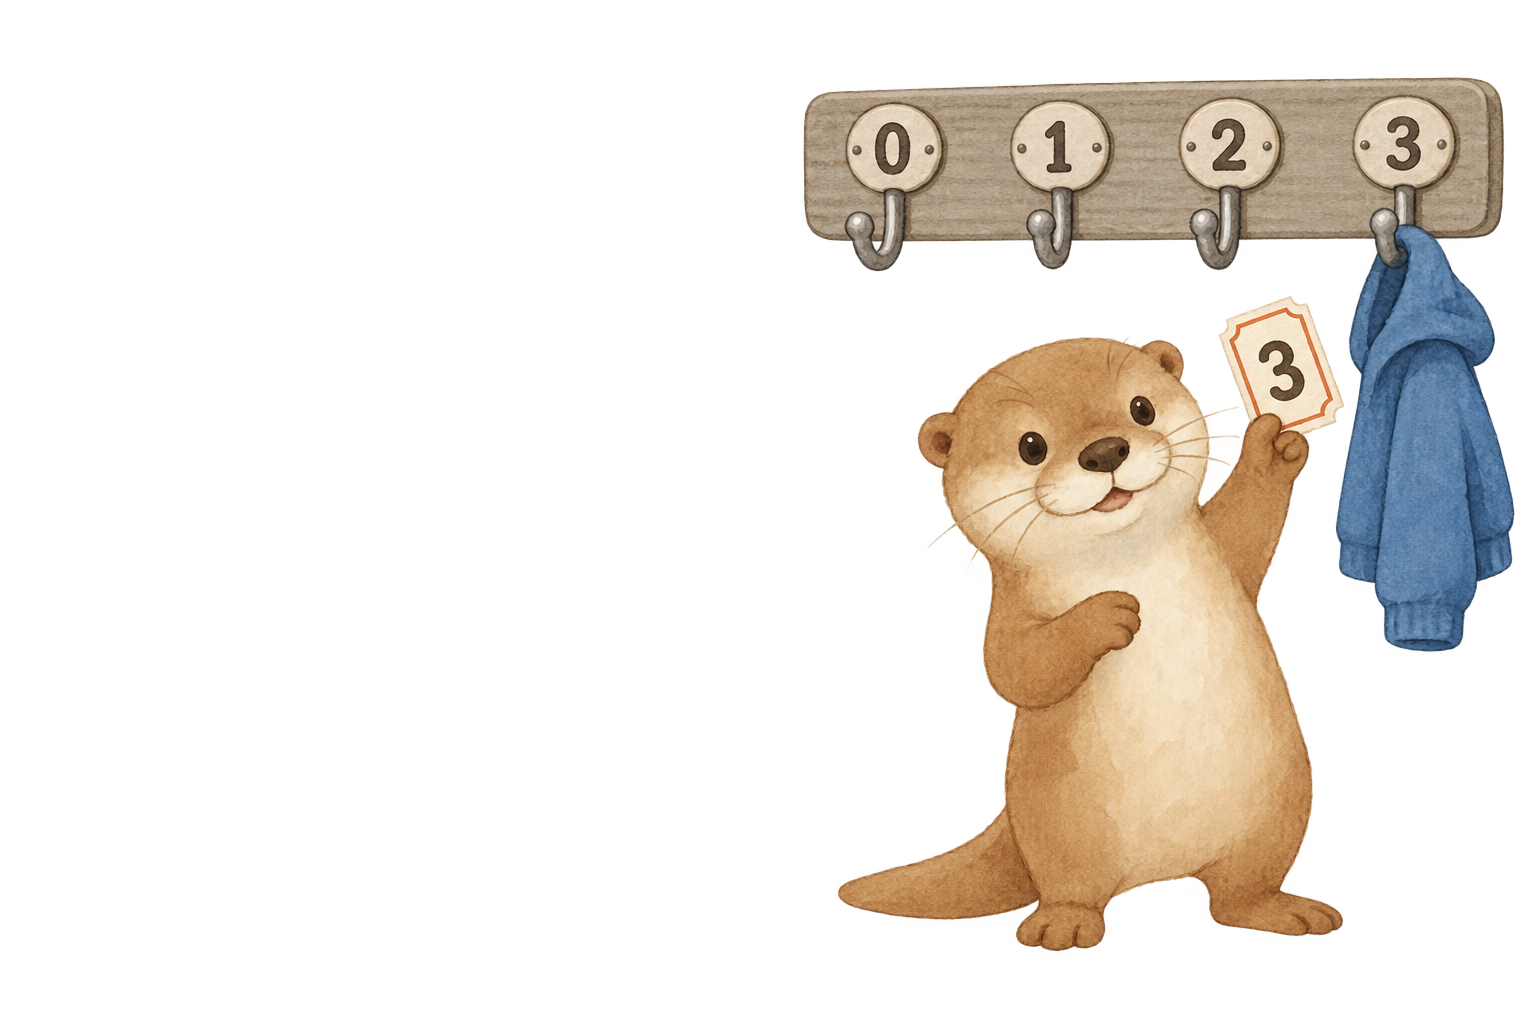
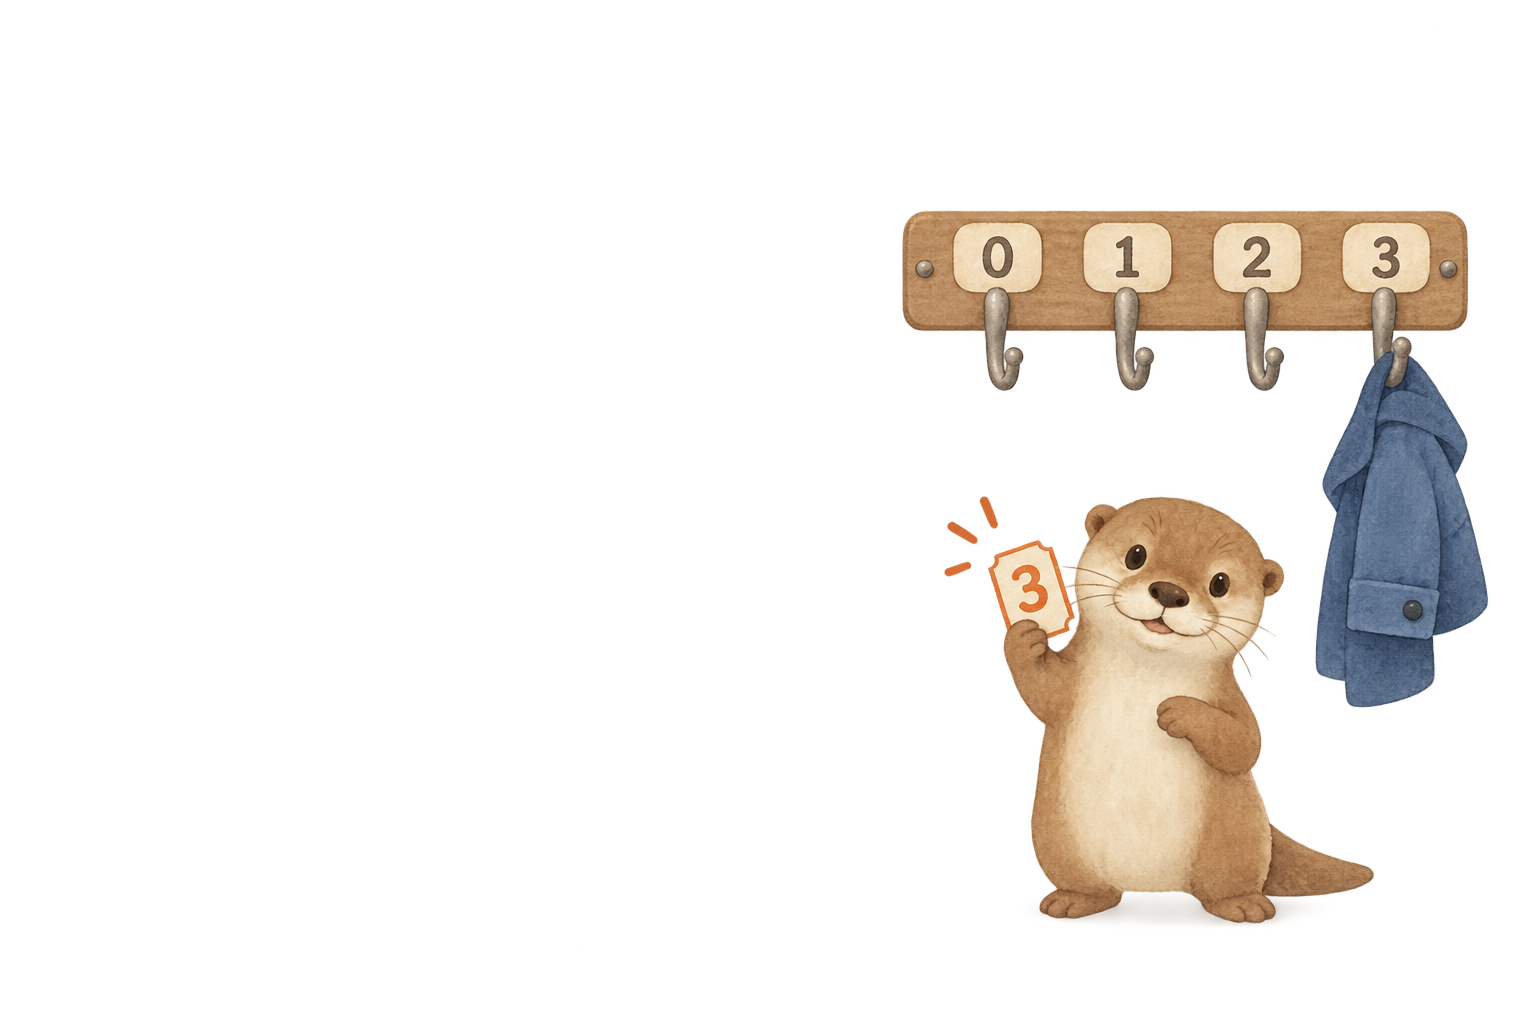
update images

Changed region(s): [[0.5, 0.0625, 1.0, 0.9375]]

diff --git a/scripts/generate_images.py b/scripts/generate_images.py
@@ -28,7 +28,7 @@ REPO_ROOT = Path(__file__).resolve().parents[1]
 IMAGES_DIR = REPO_ROOT / "website" / "slides" / "images"
 
 # Shown to the model so the otter and the style stay the same across lectures.
-STYLE_REFS = [IMAGES_DIR / "hello_background.png", IMAGES_DIR / "lec02_title_bg.png"]
+STYLE_REFS = [IMAGES_DIR / "hello_background.png", IMAGES_DIR / "watch.png"]
 
 # The written form of "same style as this one, same character".
 STYLE_LOCK = (
